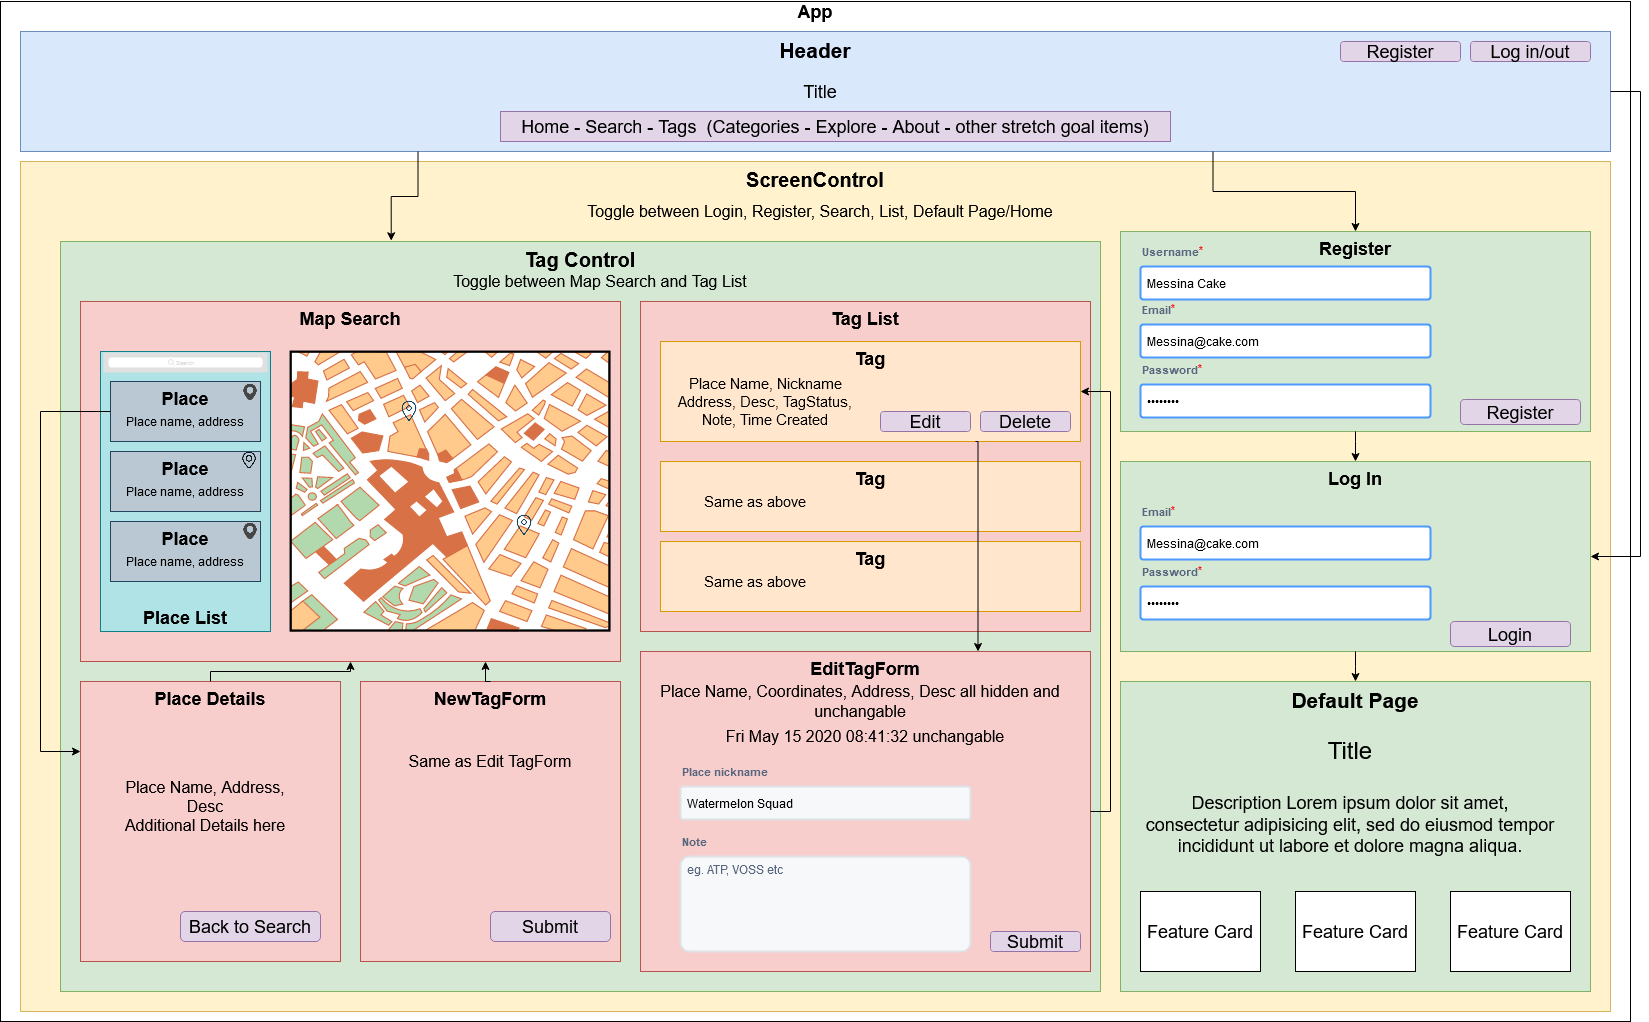
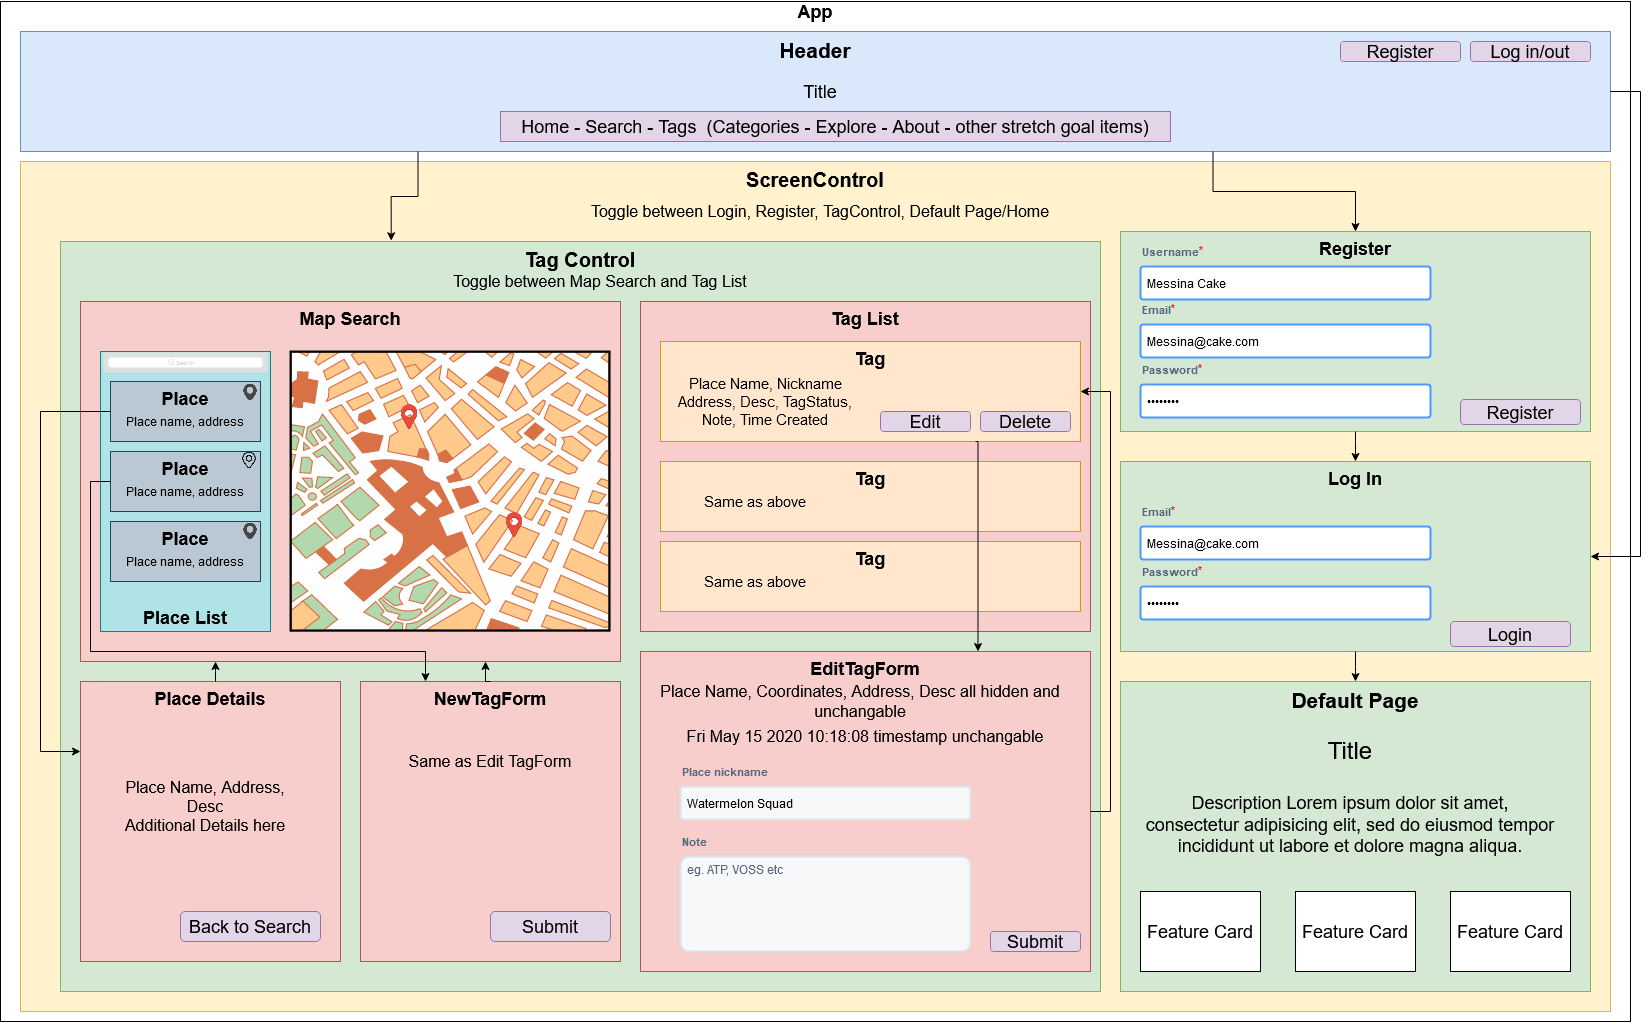
Add more files and basic code, edit component diagram

diff --git a/src/components/TagControl.js/TagList.js b/src/components/TagControl.js/TagList.js
@@ -1,5 +1,6 @@
 import React from 'react';
 import Tag from './Tag';
+import PropTypes from 'prop-types';
 
 const tags = [{}];
 
@@ -8,10 +9,28 @@ function TagList(){
     <React.Fragment>
       <hr />
       {tags.map((tag) => {
-        return <Tag />
+        return <Tag
+          tagStatus={tag.tagStatus}
+          dateCreated={tag.dateCreated}
+          nickName={tag.nickName}
+          placeName={tag.placeName}
+          address={tag.address}
+          coordinates={tag.coordinates}
+          description={tag.description}
+          personalNote={tag.personalNote}
+          whenEditClicked={props.onEditClick}
+          whenDeleteClicked={props.onDeleteClick}
+          id={tag.id}
+          key={tag.id}
+          />
       })}
     </React.Fragment>
   );
+}
+
+TagList.PropTypes = {
+  onEditClick: PropTypes.func,
+  onDeleteClick: PropTypes.func
 }
 
 export default TagList;

diff --git a/src/components/TagControl.js/Tag.js b/src/components/TagControl.js/Tag.js
@@ -9,15 +9,15 @@ function Tag(props){
       <h4>{props.address} | {props.coordinates}</h4>
       <p>{props.description}</p>
       <p>Note: {props.personalNote}</p>
-      <button className="btn btn-secondary" onClick = {() => {props.onEditClick(props.id)}}>Edit</button>
-      <button className="btn btn-secondary" onClick = {() => {props.onDeleteClick(props.id)}}>Delete</button>
+      <button className="btn btn-secondary" onClick = {() => {props.whenEditClick(props.id)}}>Edit</button>
+      <button className="btn btn-secondary" onClick = {() => {props.whenDeleteClick(props.id)}}>Delete</button>
     </React.Fragment>
   );
 }
 
 Tag.propTypes = {
-  onEditClick: PropTypes.func,
-  onDeleteClick: PropTypes.func,
+  whenEditClick: PropTypes.func,
+  whenDeleteClick: PropTypes.func,
   tagStatus: PropTypes.bool,
   dateCreated: PropTypes.object,
   nickName: PropTypes.string,

diff --git a/src/components/TagControl.js/PlaceList.js b/src/components/TagControl.js/PlaceList.js
@@ -1,12 +1,28 @@
 import React from 'react';
 import Place from './Place';
+import PropTypes from 'prop-types';
+
+const places = [{}];
 
 function PlaceList(){
   return(
     <React.Fragment>
-      <Place />
+      <hr />
+      {places.map((place) => {
+        return <Place 
+          whenTaggingClick={place.onTaggingClick}
+          placeName={place.placeName}
+          address={place.address}
+          id={place.id}
+          key={place.id}
+        />
+      })}
     </React.Fragment>
   );
+}
+
+PlaceList.PropTypes = {
+  onTaggingClick: PropTypes.func
 }
 
 export default PlaceList;

diff --git a/src/components/TagControl.js/MapSearch.js b/src/components/TagControl.js/MapSearch.js
@@ -1,0 +1,14 @@
+import React from 'react';
+import PlaceList from './PlaceList';
+
+function MapSearch(props){
+  return (
+    <React.Fragment>
+      <h2>MAP SEARCH</h2>
+      <PlaceList />
+      {/* Map from API here */}
+    </React.Fragment>
+  );
+}
+
+export default MapSearch;

diff --git a/src/components/TagControl.js/PlaceDetails.js b/src/components/TagControl.js/PlaceDetails.js
@@ -1,0 +1,11 @@
+import React from 'react';
+
+function PlaceDetails(props){
+  return (
+    <React.Fragment>
+      <h2>PLACE DETAILS</h2>
+    </React.Fragment>
+  );
+}
+
+export default PlaceDetails;

diff --git a/src/components/TagControl.js/EditTagForm.js b/src/components/TagControl.js/EditTagForm.js
@@ -1,0 +1,11 @@
+import React from 'react';
+
+function EditTagForm(props){
+  return(
+    <React.Fragment>
+      <h2>EDIT TAG FORM</h2>
+    </React.Fragment>
+  );
+}
+
+export default EditTagForm;

diff --git a/src/components/TagControl.js/Place.js b/src/components/TagControl.js/Place.js
@@ -12,7 +12,7 @@ function Place(props){
 }
 
 Place.PropTypes = {
-  onTaggingClick: PropTypes.func,
+  whenTaggingClick: PropTypes.func,
   placeName: PropTypes.string,
   address: PropTypes.string
 }

diff --git a/src/components/TagControl.js/NewTagForm.js b/src/components/TagControl.js/NewTagForm.js
@@ -1,0 +1,11 @@
+import React from 'react';
+
+function NewTagForm(props){
+  return (
+    <React.Fragment>
+      <h2>NEW TAG FORM</h2>
+    </React.Fragment>
+  );
+}
+
+export default NewTagForm;
